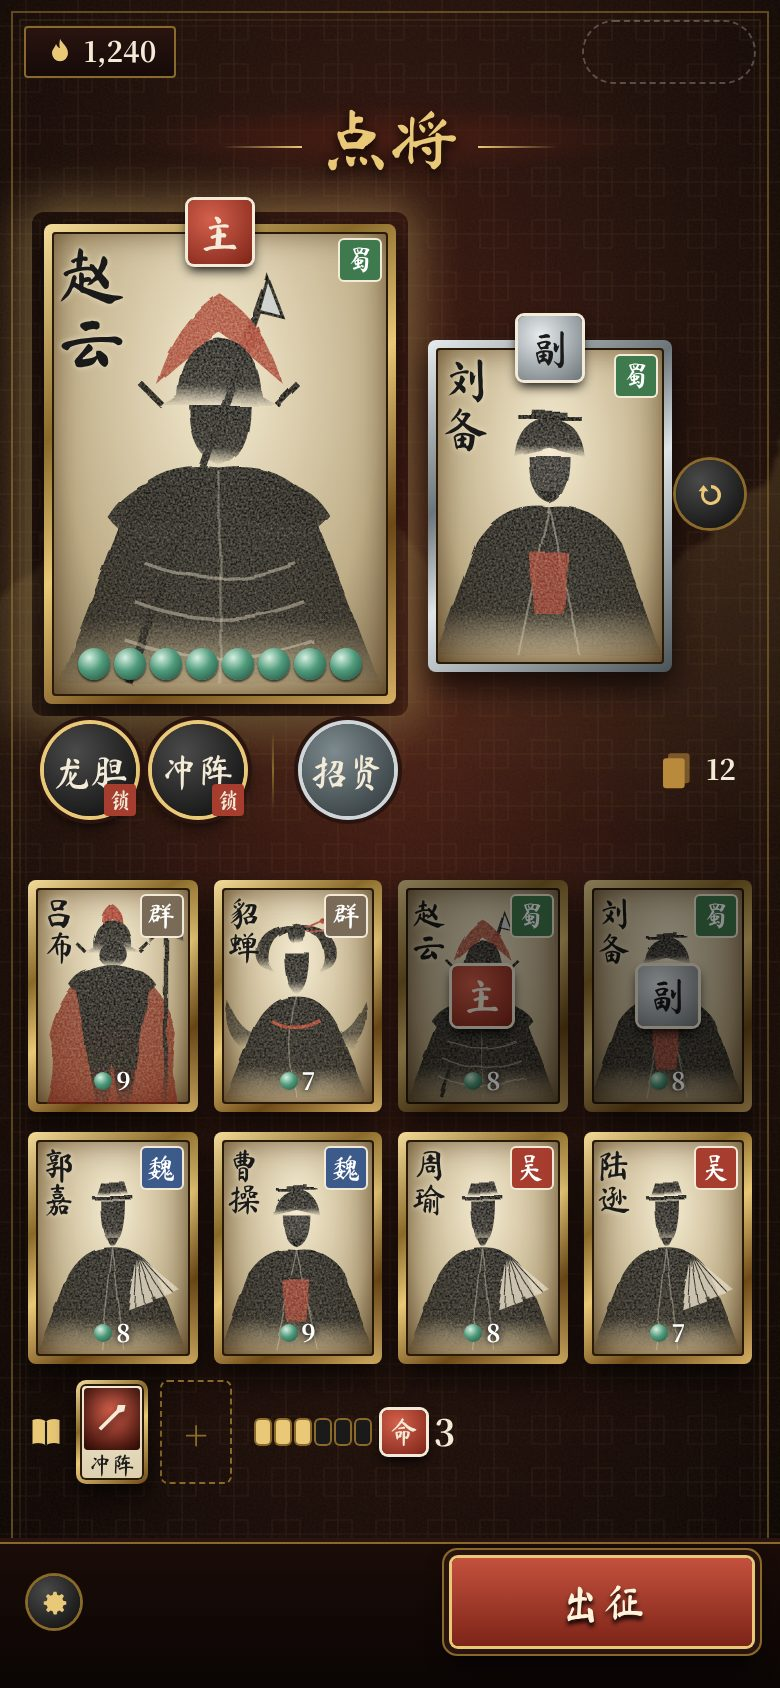
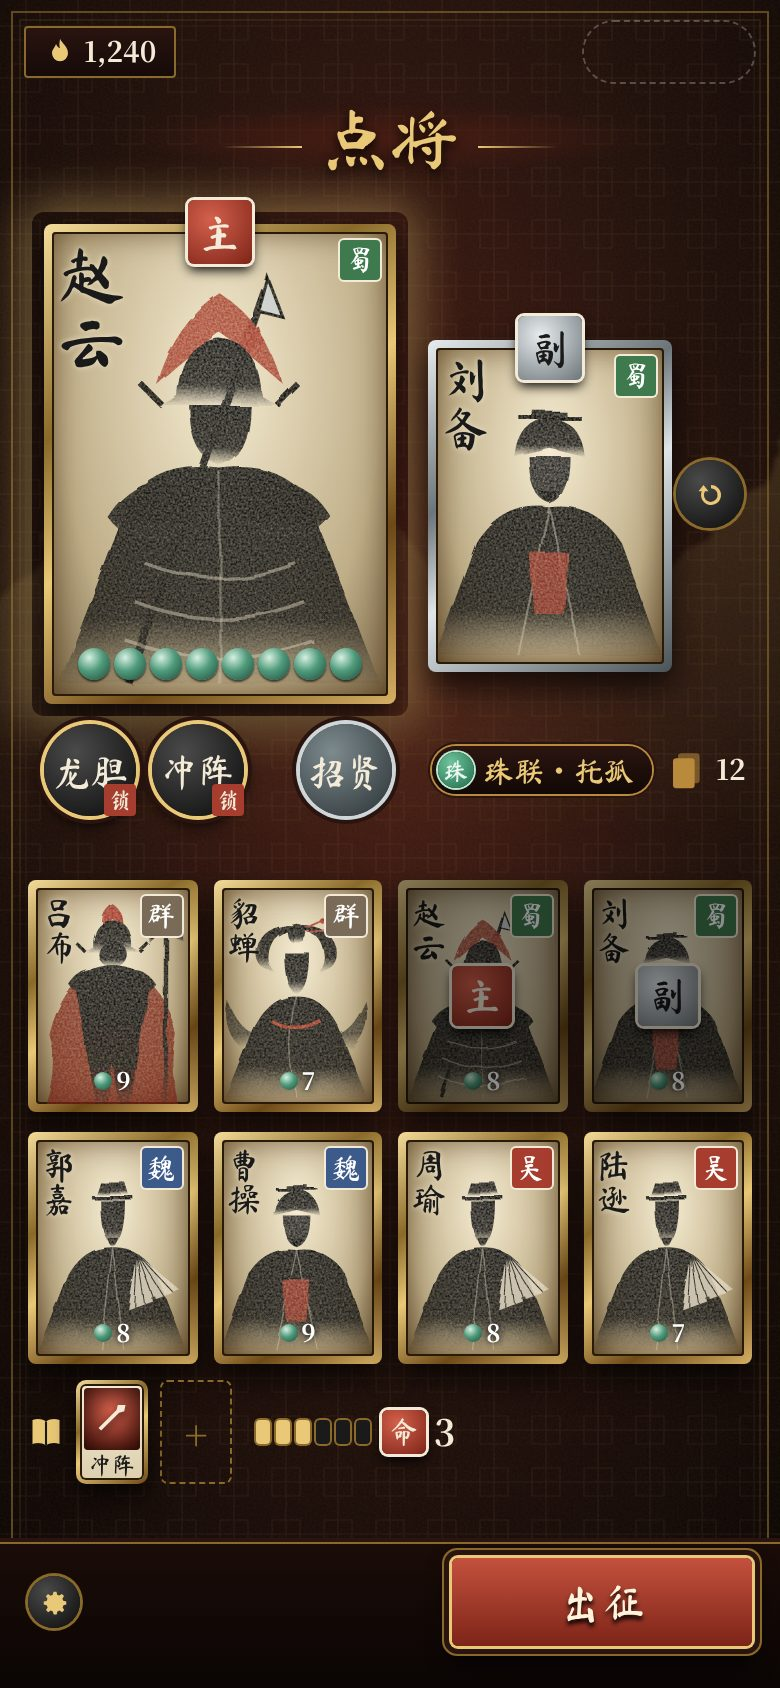
docs(ui): 手牌烘焙缓存上限 12→10（PRD 硬上限）并更新 §12 内存；点将页珠联 chip、书法子集生成规则、调试状态条位置（答复 #68）

diff --git a/docs/ui/mockups-v3/select.html b/docs/ui/mockups-v3/select.html
@@ -12,6 +12,9 @@
 .sk.lock b::after{content:"锁";position:absolute;margin:30px 0 0 30px;font-size:11px;width:16px;height:16px;line-height:16px;text-align:center;background:var(--cinnabar);border-radius:2px}
 .sk.v b{background:radial-gradient(circle at 35% 30%,#7d8a8e,#2a3235);box-shadow:0 0 0 2px var(--silver),0 0 0 4px var(--lac-3)}
 .div{width:1px;height:40px;background:linear-gradient(transparent,var(--gold-lo),transparent);margin:0 6px}
+.zlc{margin-left:12px;white-space:nowrap;flex-shrink:0;height:24px;display:flex;align-items:center;gap:5px;padding:0 9px 0 3px;border-radius:12px;background:linear-gradient(rgba(42,20,16,.92),rgba(15,7,5,.95));box-shadow:0 0 0 1px var(--gold-mid),0 0 0 2px var(--lac-3);font-family:Brush;font-size:15px;color:var(--gold)}
+.zlc i{font-style:normal;width:18px;height:18px;border-radius:50%;display:grid;place-items:center;font-size:12px;color:#eaf7ef;background:radial-gradient(circle at 35% 30%,#6fc39c,#1f6b4b);box-shadow:0 0 0 1px #bfe8cf}
+.dbg{display:none;position:absolute;left:12px;top:0;height:10px;font:9px/10px sans-serif;color:rgba(244,220,154,.55);z-index:20;pointer-events:none}body.hud .dbg{display:block}
 .deckp{margin-left:auto;display:flex;align-items:center;gap:4px;font-size:14px}.deckp svg{width:20px;height:20px;fill:var(--gold-mid)}
 .grid{position:absolute;left:14px;right:14px;top:440px;display:grid;grid-template-columns:repeat(4,1fr);gap:10px 8px}
 .g{height:116px;cursor:pointer}.g .nm{font-size:17px}.g .hp{position:absolute;left:0;right:0;bottom:3px;text-align:center;font-size:12px;color:#fff;text-shadow:0 0 3px #000}
@@ -159,7 +162,7 @@
  <div class="gf sv vice"><div class="w"><svg class="fig"><use href="#hero2"/></svg><span class="nm">刘备</span><span class="fac shu">蜀</span></div><span class="seal role">副</span></div>
  <div class="ico swap"><svg><use href="#i-refresh"/></svg></div>
 </div>
-<div class="skills"><div class="sk lock"><b>龙胆</b></div><div class="sk lock"><b>冲阵</b></div><div class="div"></div><div class="sk v"><b>招贤</b></div><div class="deckp"><svg><use href="#i-deck"/></svg><span class="num">12</span></div></div>
+<div class="skills"><div class="sk lock"><b>龙胆</b></div><div class="sk lock"><b>冲阵</b></div><div class="div"></div><div class="sk v"><b>招贤</b></div><div class="zlc"><i>珠</i>珠联·托孤</div><div class="deckp"><svg><use href="#i-deck"/></svg><span class="num">12</span></div></div>
 <div class="grid" id="grid"></div>
 <div class="zl"><svg style="width:18px;height:18px;fill:var(--gold)"><use href="#i-book"/></svg><div class="book"><div class="card atk E"><div class="in"><div class="art"><svg><use href="#i-spear"/></svg></div><div class="cn">冲阵</div></div></div><div class="emp">+</div></div>
  <div class="ink"><i class="f"></i><i class="f"></i><i class="f"></i><i></i><i></i><i></i></div>
@@ -174,4 +177,4 @@ const HEROES=[{n:'吕布',f:'qun',fa:'群',hp:9,s:'boss'},{n:'貂蝉',f:'qun',fa
 function longpress(el,fn){let t;el.addEventListener('pointerdown',()=>{t=setTimeout(fn,420)});['pointerup','pointerleave'].forEach(v=>el.addEventListener(v,()=>clearTimeout(t)));}
 
 grid.innerHTML=HEROES.map((h,i)=>`<div class="gf g ${i==2||i==3?'on':''} ${i%2?'':''}"><div class="w"><svg class="fig"><use href="#${h.s}"/></svg><span class="nm">${h.n}</span><span class="fac ${h.f}">${h.fa}</span><div class="hp"><i></i><span class="num">${h.hp}</span></div></div>${i==2?'<span class="seal mk">主</span>':''}${i==3?'<span class="seal mk v">副</span>':''}</div>`).join('');
-</script></body></html>
+</script><div class="dbg">WebGL 关 · dpr 2 · 纹理 30.1/50MB · select（仅调试版）</div><script>if(location.hash.includes("hud"))document.body.classList.add("hud")</script></body></html>

diff --git a/public/mockups/v3/select.html b/public/mockups/v3/select.html
@@ -12,6 +12,9 @@
 .sk.lock b::after{content:"锁";position:absolute;margin:30px 0 0 30px;font-size:11px;width:16px;height:16px;line-height:16px;text-align:center;background:var(--cinnabar);border-radius:2px}
 .sk.v b{background:radial-gradient(circle at 35% 30%,#7d8a8e,#2a3235);box-shadow:0 0 0 2px var(--silver),0 0 0 4px var(--lac-3)}
 .div{width:1px;height:40px;background:linear-gradient(transparent,var(--gold-lo),transparent);margin:0 6px}
+.zlc{margin-left:12px;white-space:nowrap;flex-shrink:0;height:24px;display:flex;align-items:center;gap:5px;padding:0 9px 0 3px;border-radius:12px;background:linear-gradient(rgba(42,20,16,.92),rgba(15,7,5,.95));box-shadow:0 0 0 1px var(--gold-mid),0 0 0 2px var(--lac-3);font-family:Brush;font-size:15px;color:var(--gold)}
+.zlc i{font-style:normal;width:18px;height:18px;border-radius:50%;display:grid;place-items:center;font-size:12px;color:#eaf7ef;background:radial-gradient(circle at 35% 30%,#6fc39c,#1f6b4b);box-shadow:0 0 0 1px #bfe8cf}
+.dbg{display:none;position:absolute;left:12px;top:0;height:10px;font:9px/10px sans-serif;color:rgba(244,220,154,.55);z-index:20;pointer-events:none}body.hud .dbg{display:block}
 .deckp{margin-left:auto;display:flex;align-items:center;gap:4px;font-size:14px}.deckp svg{width:20px;height:20px;fill:var(--gold-mid)}
 .grid{position:absolute;left:14px;right:14px;top:440px;display:grid;grid-template-columns:repeat(4,1fr);gap:10px 8px}
 .g{height:116px;cursor:pointer}.g .nm{font-size:17px}.g .hp{position:absolute;left:0;right:0;bottom:3px;text-align:center;font-size:12px;color:#fff;text-shadow:0 0 3px #000}
@@ -159,7 +162,7 @@
  <div class="gf sv vice"><div class="w"><svg class="fig"><use href="#hero2"/></svg><span class="nm">刘备</span><span class="fac shu">蜀</span></div><span class="seal role">副</span></div>
  <div class="ico swap"><svg><use href="#i-refresh"/></svg></div>
 </div>
-<div class="skills"><div class="sk lock"><b>龙胆</b></div><div class="sk lock"><b>冲阵</b></div><div class="div"></div><div class="sk v"><b>招贤</b></div><div class="deckp"><svg><use href="#i-deck"/></svg><span class="num">12</span></div></div>
+<div class="skills"><div class="sk lock"><b>龙胆</b></div><div class="sk lock"><b>冲阵</b></div><div class="div"></div><div class="sk v"><b>招贤</b></div><div class="zlc"><i>珠</i>珠联·托孤</div><div class="deckp"><svg><use href="#i-deck"/></svg><span class="num">12</span></div></div>
 <div class="grid" id="grid"></div>
 <div class="zl"><svg style="width:18px;height:18px;fill:var(--gold)"><use href="#i-book"/></svg><div class="book"><div class="card atk E"><div class="in"><div class="art"><svg><use href="#i-spear"/></svg></div><div class="cn">冲阵</div></div></div><div class="emp">+</div></div>
  <div class="ink"><i class="f"></i><i class="f"></i><i class="f"></i><i></i><i></i><i></i></div>
@@ -174,4 +177,4 @@ const HEROES=[{n:'吕布',f:'qun',fa:'群',hp:9,s:'boss'},{n:'貂蝉',f:'qun',fa
 function longpress(el,fn){let t;el.addEventListener('pointerdown',()=>{t=setTimeout(fn,420)});['pointerup','pointerleave'].forEach(v=>el.addEventListener(v,()=>clearTimeout(t)));}
 
 grid.innerHTML=HEROES.map((h,i)=>`<div class="gf g ${i==2||i==3?'on':''} ${i%2?'':''}"><div class="w"><svg class="fig"><use href="#${h.s}"/></svg><span class="nm">${h.n}</span><span class="fac ${h.f}">${h.fa}</span><div class="hp"><i></i><span class="num">${h.hp}</span></div></div>${i==2?'<span class="seal mk">主</span>':''}${i==3?'<span class="seal mk v">副</span>':''}</div>`).join('');
-</script></body></html>
+</script><div class="dbg">WebGL 关 · dpr 2 · 纹理 30.1/50MB · select（仅调试版）</div><script>if(location.hash.includes("hud"))document.body.classList.add("hud")</script></body></html>

diff --git a/docs/ui/acceptance.md b/docs/ui/acceptance.md
@@ -29,7 +29,7 @@
 | 页面 | 关键检查 |
 |---|---|
 | 大厅 | **H5 不验收**（不实现）；微信后续版本：坞栏只显示“设置” |
-| 选将 | 主槽 176×240、副槽 122×166；网格 4×2 间距一致；已选武将压暗并盖印；未选满时出征 disabled；技能印 46⌀ |
+| 选将 | 主槽 176×240、副槽 122×166；网格 4×2 间距一致；已选武将压暗并盖印；未选满时出征 disabled；技能印 46⌀；珠联 chip 在技能印行内（y 373–397，副将技能印右侧 12），只显示名称，不显示正文，点/长按出详情；书法字无缺字（字体子集由构建脚本从 config 全量名称生成）；正式版不出现调试状态条 |
 | 地图 | 节点 38⌀（当前 44⌀）；已走路径朱砂实线 3.5、未走为虚线；可走节点脉冲 1.4s；滚动惯性；卷轴金轴盖在内容上方 |
 | 战斗 | 手牌硬上限 10（PRD 已定稿）：第 11 张直接进弃牌堆，显示 Toast“手满，弃置”，不触发弃牌效果；张角（Boss）没有「全场连环」意图或演出（PRD 0.5.4 O36）；敌牌尺寸（96×132 / Boss 116×160 / 后排 76×104）；意图牌位置（右上 -10/-14）；致命意图朱砂底加脉冲；倒计时圈 30⌀；勾玉 17⌀；虎符 3 枚 30×42；手牌 72×104、步进 58，花色在左；响应：遮罩 α .72、合法牌高亮、箭头起止点正确、横幅不压武将名；判定 650ms 三段动画 |
 | 灵光一闪 | 卡牌居中放大；E 墨聚 900ms；3 个词条等高 76；稀有度宝石颜色；未选时铭刻 disabled |
